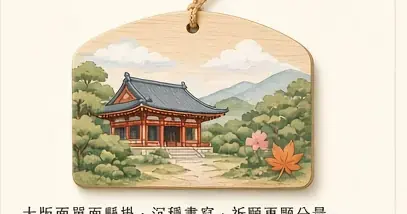
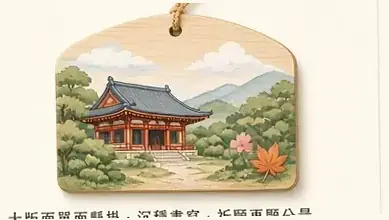
收藏圖扶正並把字移到物件下方 (v2.26.5)
繪馬底邊改成水平，徽章圓心對齊畫面，城市、地標與路程改寫在收藏物下面，不再蓋半透明白框。

diff --git a/index.html b/index.html
@@ -1067,30 +1067,13 @@ html.dark .sovstory{box-shadow:none;border:1px solid var(--line)}
 .look-gloss .mcard-stamp{background:rgba(255,253,248,.92);color:#8d312c}
 .boardface{position:relative;display:block;width:100%;line-height:0}
 .boardimg{display:block;width:100%;height:auto;border-radius:16px;filter:drop-shadow(0 8px 10px rgba(80,50,20,.16))}
-.boardplate{position:absolute;left:8%;right:8%;bottom:6%;z-index:2;line-height:1.25;text-align:center;background:rgba(255,250,242,.94);border-radius:12px;padding:6px 8px 7px;color:#3a2a22;box-shadow:0 4px 10px rgba(80,50,20,.12)}
-.boardplate b{display:block;font-size:18px;letter-spacing:.08em}
-.boardplate small,.boardplate em,.boardplate i,.boardpack{display:block;font-style:normal;font-weight:700;font-size:11px;color:#6e5344}
-.boardplate .ema-pill{color:#8d312c;font-weight:800}
-.boardplate .bp-route{display:flex;justify-content:center;align-items:flex-end;gap:8px;line-height:1.1}
-.boardplate .bp-end{display:flex;flex-direction:column;align-items:center}
-.boardplate .bp-end b{font-size:16px;letter-spacing:0}
-.boardplate .bp-end small{font-size:10px}
-.boardplate .bp-go{font-weight:800;color:#8d312c;padding-bottom:2px}
-.look-stub .boardplate-pass,.look-fold .boardplate-pass{top:3%;bottom:auto;padding:3px 6px}
-.look-phone .boardplate-pass{top:18%;bottom:auto;left:14%;right:14%;padding:3px 6px}
-.look-book .boardplate-pass{top:34%;bottom:auto;left:40%;right:6%;padding:3px 6px}
-.look-sleeve .boardplate-pass{top:12%;bottom:auto;left:12%;right:12%;padding:3px 6px}
-.sov-lg .boardplate-pass .bp-end b{font-size:15px}
-.sov-lg .boardplate-pass .boardsub{font-size:11px}
 .boardface .mcard-shine{position:absolute;top:0;bottom:0;left:0;width:28%;z-index:3;pointer-events:none;background:linear-gradient(100deg,transparent,rgba(255,255,255,.72),transparent)}
-.boardcord{position:absolute;left:50%;top:1%;width:34px;margin-left:-17px;z-index:2}
-.boardname{position:absolute;left:50%;top:16%;width:22%;height:42%;margin-left:-11%;z-index:2}
 .sov-lg .boardface{max-width:340px;margin:0 auto}
-.sov-lg .boardplate b{font-size:22px}
-.sov-mini .boardplate{padding:2px 4px;border-radius:8px}
-.sov-mini .boardplate b{font-size:11px}
-.sov-mini .boardplate small,.sov-mini .boardplate em,.sov-mini .boardplate i,.sov-mini .boardpack{font-size:8px}
-.sov-mini .boardname,.sov-mini .boardcord{display:none}
+.sovcap .bp-route{display:flex;justify-content:center;align-items:flex-end;gap:8px;line-height:1.1;margin-bottom:2px}
+.sovcap .bp-end{display:flex;flex-direction:column;align-items:center}
+.sovcap .bp-end b{font-size:15px;letter-spacing:0}
+.sovcap .bp-end small{font-size:10px}
+.sovcap .bp-go{font-weight:800;color:#8d312c;padding-bottom:2px}
 @keyframes sovin{from{opacity:0;transform:translateY(10px)}to{opacity:1;transform:translateY(0)}}
 @keyframes pagein{from{opacity:0}to{opacity:1}}
 @keyframes storyin{from{opacity:0;transform:translateY(8px)}to{opacity:1;transform:translateY(0)}}
@@ -1314,7 +1297,7 @@ addEventListener('load',()=>(window.requestIdleCallback||setTimeout)(()=>setTime
 let impP=null;function openImport(){return (impP||(impP=new Promise((ok,no)=>{const e=document.createElement('script');e.src='importer.js';e.onload=ok;e.onerror=()=>{impP=null;no()};document.head.append(e)}))).then(()=>importSheet()).catch(()=>toast('載入失敗，請稍後再試'))}
 function ticketTodayCount(t){if(!t||typeof Tickets==='undefined'||!Tickets.isToday)return 0;const today=Tickets.todayYmd();return (t.tickets||[]).filter(x=>!x.used&&Tickets.isToday(x,t,today)).length}
 function render(){const on=k=>k===tab||(k==='list'&&(tab==='edit'||tab==='new'));const nToday=ticketTodayCount(T());$('#nav').innerHTML=TABS.map(([k,n])=>{const badge=k==='expense'&&nToday?`<b class="nb">${nToday>99?'99+':nToday}</b>`:'';const label=k==='expense'&&nToday?` aria-label="支出與票券，今天 ${nToday} 張"`:'';const wide=n.length>2?' wide':'';return `<button class="${on(k)?'on':''}${wide}" onclick="go('${k}')"${label}><span class="nic">${badge}<svg viewBox="0 0 24 24">${TI[k]}</svg></span>${n}</button>`}).join('');$('#app').innerHTML=V[tab]()+foot();if(tab==='edit'){bindDays();bindSort();const tt=T();if(tt)wxLoad(tt);if(typeof fillLive==='function')fillLive();maybeAutoShift()}if(tab==='deals'||tab==='edit')loadDeals();if(tab==='expense'&&expPane!=='tix'&&typeof paintExp==='function')paintExp();if(tab==='food'&&typeof paintFood==='function')paintFood();if(tab==='more'&&typeof paintAccount==='function')paintAccount();if(tab==='more'&&typeof paintBackupHint==='function')paintBackupHint();xswLinks();if(window.Journey)Journey.afterPaint()}
-const foot=()=>{const t=T(),fly=t?flyUrl(t):`${BASE}flysave/?from=trip`,fan=t?fanUrl(t):`${BASE}fansave/?from=trip`;return `<footer><div class="fb"><a class="cb" href="${SPONSOR_URL}" target="_blank" rel="noopener"><img src="icons/coffee-trip.svg" alt="" width="40" height="40">贊助</a><a class="cb" href="#" onclick="shareSite();return false"><img src="icons/share-trip.svg" alt="" width="40" height="40">分享</a></div><div class="fl"><a href="#" onclick="info('about');return false">關於我們</a><i>|</i><a href="#" onclick="info('privacy');return false">隱私權政策</a><i>|</i><a href="#" onclick="info('terms');return false">服務條款</a></div><div class="fs"><a class="sfly" id="sfly" href="${fly}"><img src="icons/fly-fly.svg" alt="" width="24" height="24">飛省 查機票</a><a class="sfan" id="sfan" href="${fan}"><img src="icons/hotel-fan.svg" alt="" width="24" height="24">飯省 找飯店</a></div><div class="vw" id="vw"${VW?``:` hidden`}>${VW?`👀 累計瀏覽 ${VW.toLocaleString()}`:``}</div><div class="copy">© 2026 旅伴 TripMate・推薦景點資料截至 2026-10-19・v2.26.4</div></footer>`};
+const foot=()=>{const t=T(),fly=t?flyUrl(t):`${BASE}flysave/?from=trip`,fan=t?fanUrl(t):`${BASE}fansave/?from=trip`;return `<footer><div class="fb"><a class="cb" href="${SPONSOR_URL}" target="_blank" rel="noopener"><img src="icons/coffee-trip.svg" alt="" width="40" height="40">贊助</a><a class="cb" href="#" onclick="shareSite();return false"><img src="icons/share-trip.svg" alt="" width="40" height="40">分享</a></div><div class="fl"><a href="#" onclick="info('about');return false">關於我們</a><i>|</i><a href="#" onclick="info('privacy');return false">隱私權政策</a><i>|</i><a href="#" onclick="info('terms');return false">服務條款</a></div><div class="fs"><a class="sfly" id="sfly" href="${fly}"><img src="icons/fly-fly.svg" alt="" width="24" height="24">飛省 查機票</a><a class="sfan" id="sfan" href="${fan}"><img src="icons/hotel-fan.svg" alt="" width="24" height="24">飯省 找飯店</a></div><div class="vw" id="vw"${VW?``:` hidden`}>${VW?`👀 累計瀏覽 ${VW.toLocaleString()}`:``}</div><div class="copy">© 2026 旅伴 TripMate・推薦景點資料截至 2026-10-19・v2.26.5</div></footer>`};
 const V={
 list:()=>{const card=t=>`<div class="card${t.archived?' shelf':''}" onclick="cur='${t.id}';dayIx=0;save();go('edit')" style="cursor:pointer"><div class="row"><div>${ui('suitcase')}<b>${esc(t.dest)}</b> <span class="mut">${esc(t.dep)} → ${esc(t.ret)} · ${esc(t.pax)} 人</span></div><span style="flex:0" onclick="event.stopPropagation()">${ib('del',`delTrip('${t.id}')`,'刪除')}</span></div><div class="mut">${t.archived?'已封存 · ':''}${(t.days||[]).flat().length} 個景點</div></div>`;const live=trips.filter(t=>!t.archived),arch=trips.filter(t=>t.archived);const head=`<div class="row" style="justify-content:space-between;align-items:center"><h2 style="margin:0">我的行程</h2><button class="btn sm" style="flex:0" onclick="go('new')">＋ 新增行程</button></div><div class="row" style="margin:8px 0"><button class="btn ghost sm" style="flex:0" onclick="openImport()">匯入行程</button></div>`;const liveHtml=live.length?live.map(card).join(''):(arch.length?`<div class="card"><p>沒有進行中的行程。</p><button class="btn" onclick="go('new')">建立新行程</button></div>`:`<div class="card"><p>還沒有行程。</p><button class="btn" onclick="go('new')">建立第一個行程</button></div>`);const been=window.Journey?`<button type="button" class="vmap-entry" onclick="Journey.openVisitMap()"><span class="vmap-ico" aria-hidden="true"><svg viewBox="0 0 24 24"><path d="M4 6l6-2 4 2 6-2v14l-6 2-4-2-6 2z"/><path d="M10 4v14M14 6v14"/></svg></span><span><b>去過的地方</b><small>${esc(Journey.visitBrief())}</small></span></button>`:'';const keeps=window.Journey&&Journey.shelfHtml?Journey.shelfHtml(arch):(arch.length?`<h3 class="shelfhead">封存</h3>${arch.map(card).join('')}`:'');return head+been+liveHtml+keeps},
 new:()=>{let d=new Date(Date.now()+14*864e5).toISOString().slice(0,10),r=new Date(Date.now()+18*864e5).toISOString().slice(0,10);const ok=x=>x&&/^\d{4}-\d\d-\d\d$/.test(x)&&x>=new Date().toISOString().slice(0,10);if(PF){if(ok(PF.dep))d=PF.dep;if(ok(PF.ret)&&PF.ret>=d)r=PF.ret;else if(ok(PF.dep)){const x=new Date(d);x.setDate(x.getDate()+3);r=x.toISOString().slice(0,10)}}

diff --git a/journey.js b/journey.js
@@ -1077,29 +1077,31 @@
   }
   function boardFace(mem) {
     const look = mem.look || 0;
+    const img = '<img class="boardimg" src="' + boardSrc(mem.kind, look) + '" alt="" draggable="false">';
+    const shine = mem.kind === 'card' && look === 0 ? '<span class="mcard-shine" aria-hidden="true"></span>' : '';
+    return '<span class="boardface">' + img + shine + '</span>';
+  }
+  function boardCap(mem) {
     const b = motifBits(mem);
     const voice = mem.voice || VOICE.plain;
-    const img = '<img class="boardimg" src="' + boardSrc(mem.kind, look) + '" alt="" draggable="false">';
-    let plate = '<span class="boardplate"><b>' + esc(b.city) + '</b><small>' + esc(b.land) + '</small></span>';
-    let cord = '';
     if (mem.kind === 'pass') {
-      plate = '<span class="boardplate boardplate-pass">' + passRoute(mem) + '<small class="boardsub">' + esc(b.city) + ' · ' + esc(b.land) + '</small></span>';
-    } else if (mem.kind === 'charm') {
-      plate = '<span class="boardplate"><b>' + esc(b.city) + '</b><small>' + esc(b.land) + '</small><em>' + esc(voice.charm) + '</em></span>';
-    } else if (mem.kind === 'pack') {
-      const faces = packFaces(mem);
-      plate = '<span class="boardplate"><b>' + esc(b.city) + '</b><small>' + esc(b.land) + '</small><span class="boardpack">卡包</span><i>' + esc(b.food) + '</i><i class="boardspot">' + esc(faces[2] || '') + '</i></span>';
-    } else if (mem.kind === 'badge') {
-      plate = '<span class="boardplate"><b>' + esc(b.city) + '</b><small>' + esc(b.land) + '</small><i>' + esc(b.food) + '</i></span>';
-    } else if (mem.kind === 'plaque') {
-      if (look === 0) {
-        cord = '<svg class="boardcord" viewBox="0 0 40 16" aria-hidden="true"><path class="ema-cord" d="M20 2 C28 6 30 12 20 14 C10 12 12 6 20 2" fill="none" stroke="#b4332a" stroke-width="1.4" stroke-linecap="round"/></svg><svg class="boardname" viewBox="0 0 200 228" aria-hidden="true">' + plaqueName(mem.dest) + '</svg>';
-      }
-      plate = '<span class="boardplate"><b>' + esc(b.city) + '</b><small>' + esc(b.land) + '</small><em class="ema-pill">' + esc(voice.plaque) + '</em></span>';
-    } else if (mem.kind === 'card' && look === 0) {
-      plate = '<span class="mcard-shine" aria-hidden="true"></span>' + plate;
+      return '<span class="sovcap">' + passRoute(mem) + '<small>' + esc(b.city) + ' · ' + esc(b.land) + '</small><small>' + esc(mem.label) + '</small></span>';
     }
-    return '<span class="boardface">' + img + cord + plate + '</span>';
+    if (mem.kind === 'charm') {
+      return '<span class="sovcap"><b>' + esc(b.city) + '</b><small>' + esc(b.land) + '</small><small>' + esc(voice.charm) + '</small></span>';
+    }
+    if (mem.kind === 'pack') {
+      const faces = packFaces(mem);
+      const spot = faces[2] ? '<small>' + esc(faces[2]) + '</small>' : '';
+      return '<span class="sovcap"><b>' + esc(b.city) + '</b><small>' + esc(b.land) + '</small><small>卡包</small><small>' + esc(b.food) + '</small>' + spot + '</span>';
+    }
+    if (mem.kind === 'badge') {
+      return '<span class="sovcap"><b>' + esc(b.city) + '</b><small>' + esc(b.land) + '</small><small>' + esc(b.food) + '</small></span>';
+    }
+    if (mem.kind === 'plaque') {
+      return '<span class="sovcap"><b>' + esc(b.city) + '</b><small>' + esc(b.land) + '</small><small>' + esc(voice.plaque) + '</small></span>';
+    }
+    return '<span class="sovcap"><b>' + esc(b.city) + '</b><small>' + esc(b.land) + '</small></span>';
   }
   function souvenirBody(mem) {
     return boardFace(mem);
@@ -1156,9 +1158,7 @@
     mem.lookKey = lookKey(mem.kind, mem.look || 0);
     const size = opt.size === 'lg' ? 'lg' : 'mini';
     const body = souvenirBody(mem);
-    const cap = opt.cap === false ? '' : (mem.kind === 'pass'
-      ? '<span class="sovcap"><b>' + esc(mem.dest) + '</b><small>' + esc(mem.label) + '</small></span>'
-      : '<span class="sovcap"><small>' + esc(mem.label) + '</small></span>');
+    const cap = boardCap(mem);
     const poke = size === 'lg' ? ' sov-poke' : '';
     return '<span class="sov sov-' + mem.kind + ' sov-' + size + poke + ' tone-' + mem.tone + ' look-' + mem.lookKey + '" data-look="' + mem.lookKey + '" aria-label="' + esc((mem.dest || '') + '的' + (mem.label || '紀念品')) + '"><span class="sov-hold"><span class="sov-body">' + body + '</span></span>' + cap + '</span>';
   }

diff --git a/sw.js b/sw.js
@@ -1,4 +1,4 @@
-const C='tripmate-v77',A=['./','index.html','manifest.json','planner.js','placeq.js','placeurl.js','legs.js','journey.js','extras.js','food.js','fx.js','share.js','tickets.js','notify.js','visitgeo.js','spotlore.js','vendor/lz-string.min.js','sync.js','collab.js','live.js','importer.js','urlimport.js','data/local-food.json','icons/icon.svg','icons/icon-192.png','icons/ui-spot.svg','icons/ui-fly.svg','icons/ui-hotel.svg','icons/ui-suitcase.svg','icons/coffee-trip.svg','icons/share-trip.svg','icons/fly-fly.svg','icons/hotel-fan.svg','icons/cat-food.svg','icons/cat-sightseeing.svg','icons/cat-shopping.svg','icons/cat-hotel.svg','icons/cat-transport.svg','icons/cat-cafe.svg','icons/cat-nature.svg','icons/cat-museum.svg','icons/cat-nightlife.svg','icons/cat-custom.svg','assets/keepsakes/pass-0.webp','assets/keepsakes/pass-1.webp','assets/keepsakes/pass-2.webp','assets/keepsakes/pass-3.webp','assets/keepsakes/pass-4.webp','assets/keepsakes/charm-0.webp','assets/keepsakes/charm-1.webp','assets/keepsakes/charm-2.webp','assets/keepsakes/charm-3.webp','assets/keepsakes/charm-4.webp','assets/keepsakes/pack-0.webp','assets/keepsakes/pack-1.webp','assets/keepsakes/pack-2.webp','assets/keepsakes/pack-3.webp','assets/keepsakes/pack-4.webp','assets/keepsakes/stamp-0.webp','assets/keepsakes/stamp-1.webp','assets/keepsakes/stamp-2.webp','assets/keepsakes/stamp-3.webp','assets/keepsakes/stamp-4.webp','assets/keepsakes/card-0.webp','assets/keepsakes/card-1.webp','assets/keepsakes/card-2.webp','assets/keepsakes/card-3.webp','assets/keepsakes/card-4.webp','assets/keepsakes/badge-0.webp','assets/keepsakes/badge-1.webp','assets/keepsakes/badge-2.webp','assets/keepsakes/badge-3.webp','assets/keepsakes/badge-4.webp','assets/keepsakes/ema-0.webp','assets/keepsakes/ema-1.webp','assets/keepsakes/ema-2.webp','assets/keepsakes/ema-3.webp','assets/keepsakes/ema-4.webp'];
+const C='tripmate-v78',A=['./','index.html','manifest.json','planner.js','placeq.js','placeurl.js','legs.js','journey.js','extras.js','food.js','fx.js','share.js','tickets.js','notify.js','visitgeo.js','spotlore.js','vendor/lz-string.min.js','sync.js','collab.js','live.js','importer.js','urlimport.js','data/local-food.json','icons/icon.svg','icons/icon-192.png','icons/ui-spot.svg','icons/ui-fly.svg','icons/ui-hotel.svg','icons/ui-suitcase.svg','icons/coffee-trip.svg','icons/share-trip.svg','icons/fly-fly.svg','icons/hotel-fan.svg','icons/cat-food.svg','icons/cat-sightseeing.svg','icons/cat-shopping.svg','icons/cat-hotel.svg','icons/cat-transport.svg','icons/cat-cafe.svg','icons/cat-nature.svg','icons/cat-museum.svg','icons/cat-nightlife.svg','icons/cat-custom.svg','assets/keepsakes/pass-0.webp','assets/keepsakes/pass-1.webp','assets/keepsakes/pass-2.webp','assets/keepsakes/pass-3.webp','assets/keepsakes/pass-4.webp','assets/keepsakes/charm-0.webp','assets/keepsakes/charm-1.webp','assets/keepsakes/charm-2.webp','assets/keepsakes/charm-3.webp','assets/keepsakes/charm-4.webp','assets/keepsakes/pack-0.webp','assets/keepsakes/pack-1.webp','assets/keepsakes/pack-2.webp','assets/keepsakes/pack-3.webp','assets/keepsakes/pack-4.webp','assets/keepsakes/stamp-0.webp','assets/keepsakes/stamp-1.webp','assets/keepsakes/stamp-2.webp','assets/keepsakes/stamp-3.webp','assets/keepsakes/stamp-4.webp','assets/keepsakes/card-0.webp','assets/keepsakes/card-1.webp','assets/keepsakes/card-2.webp','assets/keepsakes/card-3.webp','assets/keepsakes/card-4.webp','assets/keepsakes/badge-0.webp','assets/keepsakes/badge-1.webp','assets/keepsakes/badge-2.webp','assets/keepsakes/badge-3.webp','assets/keepsakes/badge-4.webp','assets/keepsakes/ema-0.webp','assets/keepsakes/ema-1.webp','assets/keepsakes/ema-2.webp','assets/keepsakes/ema-3.webp','assets/keepsakes/ema-4.webp'];
 // 繞過 GitHub Pages 的 max-age，避免新快取被 HTTP 快取塞進舊的 index.html
 async function putFresh(cache,url){
   const res=await fetch(new Request(url,{cache:'reload'}));
